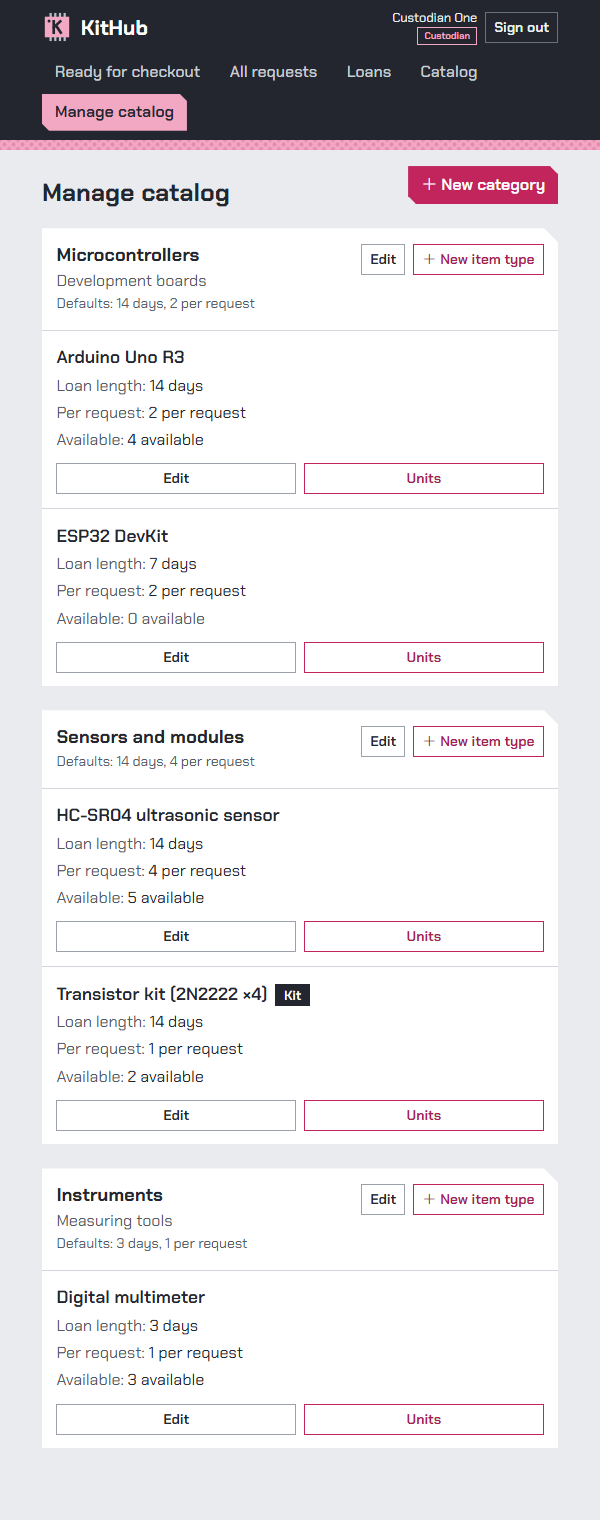
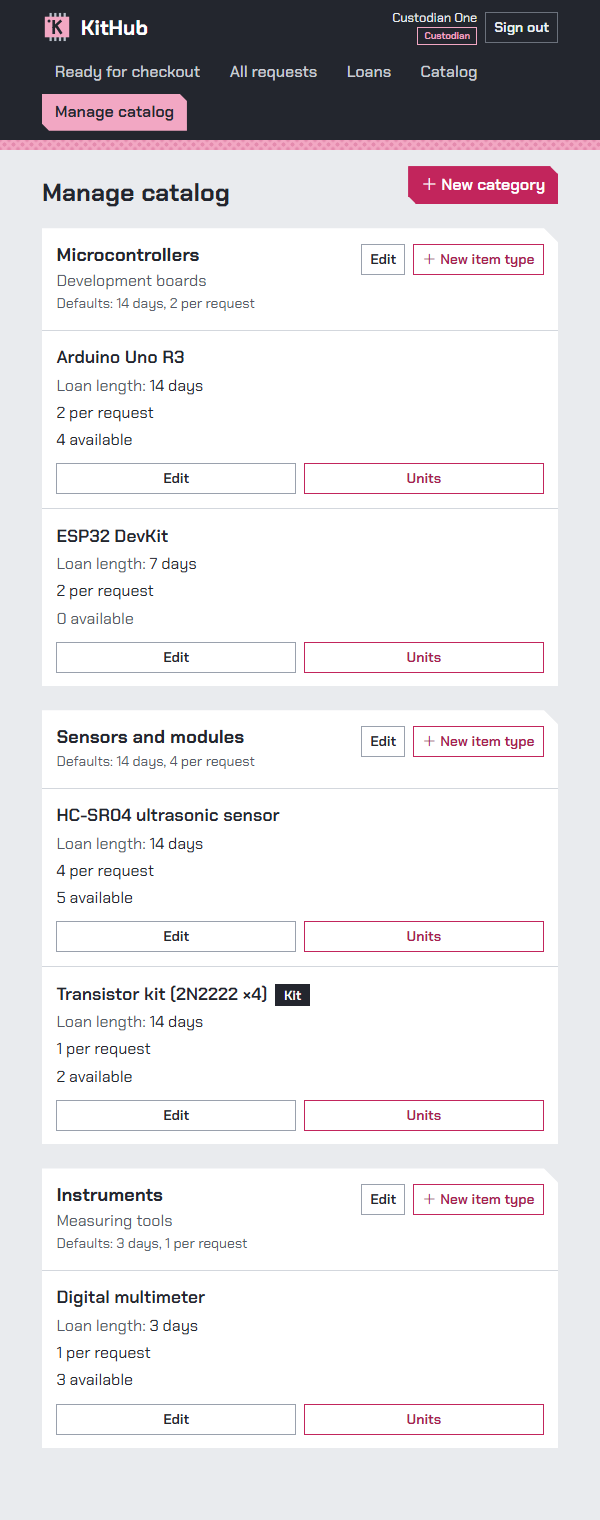
fix(#103): review of #104: danger shades as theme tokens, kh-input-row instead of an inline style, no repeated card labels

diff --git a/client/src/styles/theme.css b/client/src/styles/theme.css
@@ -14,6 +14,9 @@
   --kh-accent: #c2255c; /* buttons and selected things; white text on it is 5.66:1 */
   --kh-accent-hover: #a01d4b;
   --kh-link: #a8204f;
+  --kh-danger: #9b1c2c; /* a step that cannot be undone: cancel, reject, retire */
+  --kh-danger-hover: #7c1623;
+  --kh-danger-active: #64111c;
   --kh-cut: 14px; /* clipped corner of panels */
 
   --bs-body-font-family: "Chakra Petch", system-ui, -apple-system, "Segoe UI", sans-serif;
@@ -116,19 +119,19 @@ h5,
   --bs-btn-active-border-color: var(--kh-ink);
 }
 .btn-outline-danger {
-  --bs-btn-color: #9b1c2c;
-  --bs-btn-border-color: #9b1c2c;
-  --bs-btn-hover-bg: #9b1c2c;
-  --bs-btn-hover-border-color: #9b1c2c;
+  --bs-btn-color: var(--kh-danger);
+  --bs-btn-border-color: var(--kh-danger);
+  --bs-btn-hover-bg: var(--kh-danger);
+  --bs-btn-hover-border-color: var(--kh-danger);
 }
 /* The confirming button of a step that cannot be undone (cancel, reject, retire). */
 .btn-danger {
-  --bs-btn-bg: #9b1c2c;
-  --bs-btn-border-color: #9b1c2c;
-  --bs-btn-hover-bg: #7c1623;
-  --bs-btn-hover-border-color: #7c1623;
-  --bs-btn-active-bg: #64111c;
-  --bs-btn-active-border-color: #64111c;
+  --bs-btn-bg: var(--kh-danger);
+  --bs-btn-border-color: var(--kh-danger);
+  --bs-btn-hover-bg: var(--kh-danger-hover);
+  --bs-btn-hover-border-color: var(--kh-danger-hover);
+  --bs-btn-active-bg: var(--kh-danger-active);
+  --bs-btn-active-border-color: var(--kh-danger-active);
   --bs-btn-disabled-bg: #d9dce1;
   --bs-btn-disabled-border-color: #d9dce1;
   --bs-btn-disabled-color: #5a606b;
@@ -346,6 +349,12 @@ h5,
 }
 .kh-title-bar .btn {
   margin: 1.75rem 0 1.25rem;
+}
+/* a short input with its button on one line (Add unit) */
+.kh-input-row {
+  display: flex;
+  gap: 0.5rem;
+  max-width: 28rem;
 }
 .kh-actions {
   display: flex;

diff --git a/client/src/pages/manage/ManageCatalogPage.tsx b/client/src/pages/manage/ManageCatalogPage.tsx
@@ -115,8 +115,9 @@ export function ManageCatalogPage() {
                           {t.isKit && <span className="badge kh-kit ms-2">Kit</span>}
                         </td>
                         <td data-label="Loan length" className="kh-nowrap">{days(t.maxLoanDays)}</td>
-                        <td data-label="Per request" className="kh-nowrap">{t.maxQuantityPerRequest} per request</td>
-                        <td data-label="Available" className={`kh-nowrap${t.availableCount === 0 ? " text-body-secondary" : ""}`}>
+                        {/* No card label: "2 per request" and "4 available" already say what they are. */}
+                        <td className="kh-nowrap">{t.maxQuantityPerRequest} per request</td>
+                        <td className={`kh-nowrap${t.availableCount === 0 ? " text-body-secondary" : ""}`}>
                           {t.availableCount} available
                         </td>
                         <td className="text-end kh-nowrap kh-row-actions">

diff --git a/client/src/pages/manage/ManageUnitsPage.tsx b/client/src/pages/manage/ManageUnitsPage.tsx
@@ -135,7 +135,7 @@ export function ManageUnitsPage() {
         >
           <Field label="Asset tag" error={tagError}>
             {(p) => (
-              <div className="d-flex gap-2" style={{ maxWidth: "28rem" }}>
+              <div className="kh-input-row">
                 <input
                   {...p}
                   className={`form-control${tagError ? " is-invalid" : ""}`}
